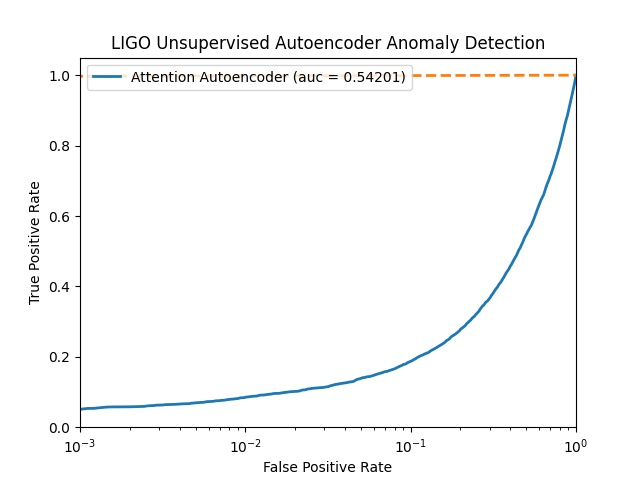
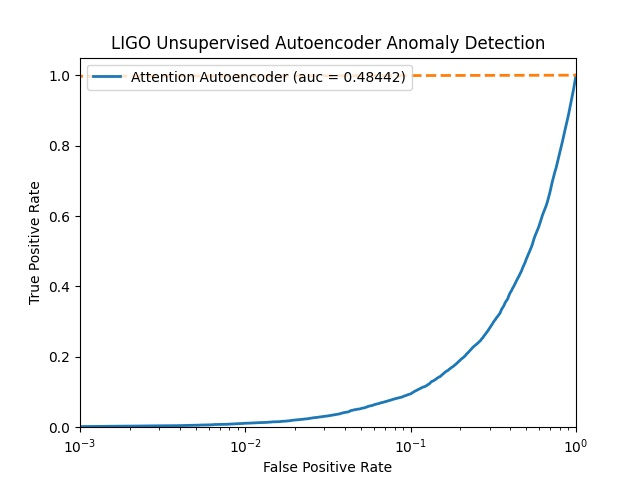
fix parameters

diff --git a/template-test/eval.py b/template-test/eval.py
@@ -78,6 +78,8 @@ def predict(x):
             top_function(x[i], predictions, ctypes.byref(ctypes.c_ushort()), ctypes.byref(ctypes.c_ushort()))
             output.append(predictions.reshape(-1,1))
             #print(int((i/n_samples)*100))
+            if i == 0:
+                print(predictions)
             print('{:.2f}% complete'.format((i/n_samples)*100), end='\r')
 
         output = np.asarray(output)
@@ -103,8 +105,10 @@ def TPR_FPR_arrays_hls(noise_array, injection_array, steps, num_events, num_entr
 
     print('number of events: ', num_events)
     noise_array = noise_array.reshape(-1, steps, 1)
+    noise_array = noise_array[:10000]
     print('noise array format: ', noise_array[:1])
     injection_array = injection_array.reshape(-1, steps, 1)
+    injection_array = injection_array[:10000]
     print("noise_array shape",noise_array.shape)
 
     ### Evaluating on training data to find threshold ### 
@@ -114,30 +118,28 @@ def TPR_FPR_arrays_hls(noise_array, injection_array, steps, num_events, num_entr
     print('Finished evaluating model on train data')
     
     #n_noise_events = 10000
-    n_noise_events = num_events
+    n_noise_events = 10000
     # Determine thresholds for FPR quantiles
     loss_fn = MeanSquaredError(reduction='none')
 
     print('needed: {}'.format(noise_array.shape))
     print('got: {}'.format(X_pred_noise.shape))
     losses = loss_fn(noise_array, X_pred_noise).numpy()
-    print("losses",len(losses))
     averaged_losses = np.mean(losses, axis=1).reshape(n_noise_events, -1)
-    print(len(averaged_losses))
-    print(averaged_losses.shape)
+    print('LOSS: ', np.mean(averaged_losses))
     max_losses = [np.max(event) for event in averaged_losses]
-    print("max_lossess", max_losses)
+    #print("max_lossess", max_losses)
 
     roc_steps = num_entries
     FPRs = np.logspace(-3, 0, roc_steps)
     thresholds = [np.quantile(max_losses, 1.0-fpr) for fpr in FPRs]
-    print("thresholds", thresholds)
+    #print("thresholds", thresholds)
     
     print('Evaluating Model on test data. This make take a while...')
     X_pred_injection = predict(injection_array)
     print('Finished evaluating model on test data')
     
-    n_injection_events = num_events
+    n_injection_events = 10000
     losses = loss_fn(injection_array, X_pred_injection).numpy()
     averaged_losses = np.mean(losses, axis=1).reshape(n_injection_events, -1)
     
@@ -193,27 +195,28 @@ def TPR_FPR_arrays(noise_array, injection_array, model_outdir, steps, num_events
     print('Finished evaluating model on train data')
     
     #n_noise_events = 10000
-    n_noise_events = num_events
+    n_noise_events = 10000
     # Determine thresholds for FPR quantiles
     loss_fn = MeanSquaredError(reduction='none')
     losses = loss_fn(noise_array, X_pred_noise).numpy()
-    print("losses",len(losses))
+    #print("losses",len(losses))
     averaged_losses = np.mean(losses, axis=1).reshape(n_noise_events, -1)
-    print(len(averaged_losses))
-    print(averaged_losses.shape)
+    print('LOSS: ', np.mean(averaged_losses))
+    #print(len(averaged_losses))
+    #print(averaged_losses.shape)
     max_losses = [np.max(event) for event in averaged_losses]
-    print("max_lossess", max_losses)
+    #print("max_lossess", max_losses)
 
     roc_steps = num_entries
     FPRs = np.logspace(-3, 0, roc_steps)
     thresholds = [np.quantile(max_losses, 1.0-fpr) for fpr in FPRs]
-    print("thresholds", thresholds)
+    #print("thresholds", thresholds)
     
     print('Evaluating Model on test data. This make take a while...')
     X_pred_injection = model.predict(injection_array)
     print('Finished evaluating model on test data')
     
-    n_injection_events = num_events
+    n_injection_events = 10000
     losses = loss_fn(injection_array, X_pred_injection).numpy()
     averaged_losses = np.mean(losses, axis=1).reshape(n_injection_events, -1)
     

diff --git a/template-test/firmware/parameters.h b/template-test/firmware/parameters.h
@@ -158,7 +158,7 @@ struct config7 : nnet::time_distributed_dense_config {
 };
 
 struct config_tanh7 : nnet::activ_config {
-   	static const unsigned n_in = N_LAYER_2*2;
+   	static const unsigned n_in = N_INPUT_2_1;
     typedef ap_fixed<18,8> table_t;
     typedef model_default_t constant_t;
 };
